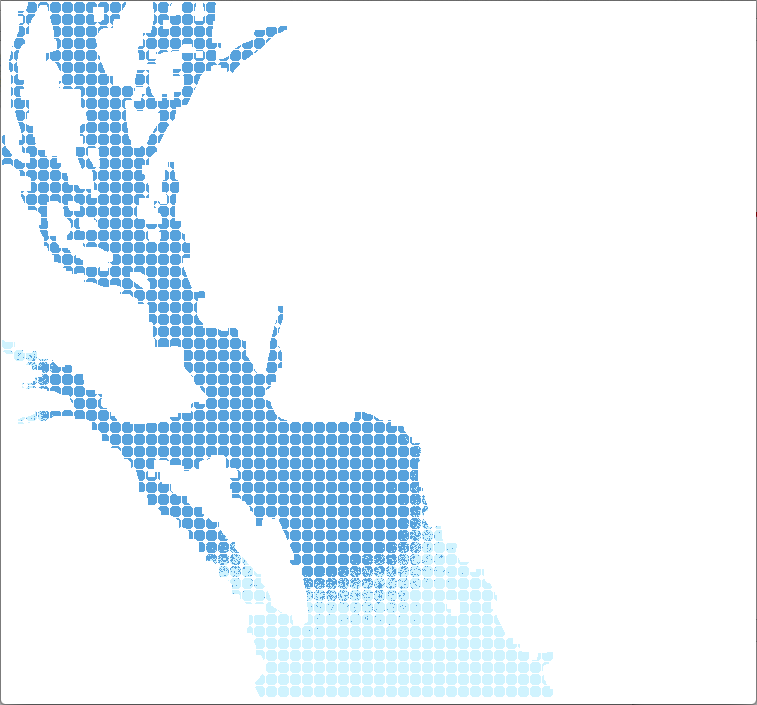
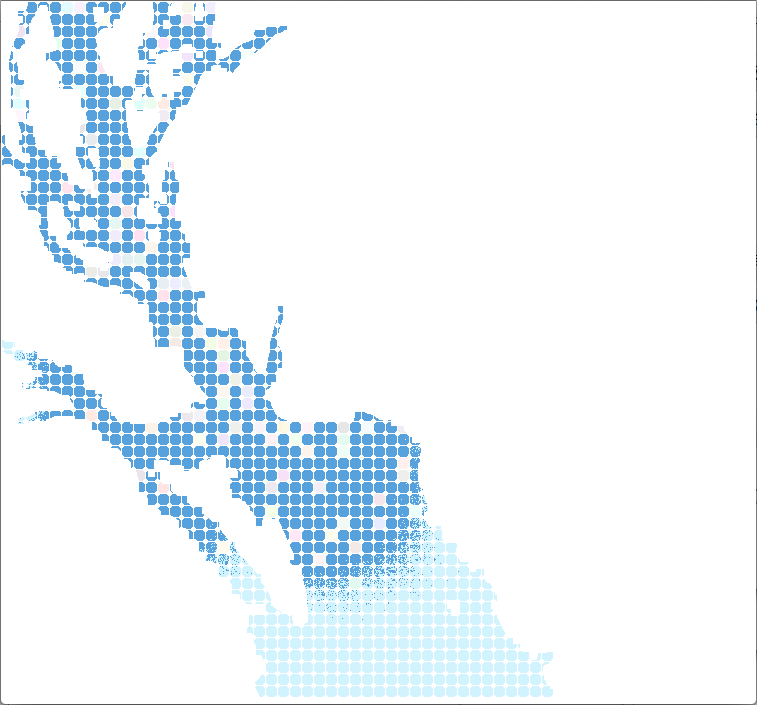
...

diff --git a/project_code/DevArt/main.cpp b/project_code/DevArt/main.cpp
@@ -41,6 +41,12 @@ char keyA[MAX_H][MAX_W],keyB[MAX_H][MAX_W];
 int keyC[MAX_H][MAX_W][2];
 IplImage* img=NULL;
 
+CvScalar cSW;
+CvScalar cSB;
+CvScalar cSG;
+CvScalar cSL;
+CvScalar cSD;
+
 struct PIX
 {
     int x,y,us,key,keyTime;
@@ -51,7 +57,7 @@ int pl;
 struct KEYPIX
 {
     int x,y,t,pi;
-    CvScalar clr;
+    CvScalar clri,clrt;
 }kp[MAX_H*MAX_W];
 
 int kpi,kpl;
@@ -93,9 +99,10 @@ void getKey(int &key,int &keyTime)
 
 void getClr(int key)
 {
-    kp[kpl].clr.val[0]=192+rand()%64;
-    kp[kpl].clr.val[1]=192+rand()%64;
-    kp[kpl].clr.val[2]=192+rand()%64;
+    kp[kpl].clri=cSW;
+    kp[kpl].clrt.val[0]=192+rand()%64;
+    kp[kpl].clrt.val[1]=192+rand()%64;
+    kp[kpl].clrt.val[2]=192+rand()%64;
 }
 
 const unsigned int kNumAQBufs = 3;			// number of audio queue buffers we allocate
@@ -173,18 +180,11 @@ int main(int argc, const char * argv[])
     }
     int i,j,k,l,x,y;
     srand(hs(lo.c_str())*hs(la.c_str())*hs(z.c_str()));
-    CvScalar cSW;
     cSW.val[0]=cSW.val[1]=cSW.val[2]=255;
-    CvScalar cSB;
     cSB.val[0]=cSB.val[1]=cSB.val[2]=0;
-    CvScalar cSG;
     cSG.val[0]=cSG.val[1]=cSG.val[2]=240;
-    CvScalar cSL;
     cSL.val[0]=253; cSL.val[1]=242; cSL.val[2]=213;
-    CvScalar cSD;
     cSD.val[0]=217; cSD.val[1]=163; cSD.val[2]=99;
-    CvScalar cSY;
-    cSY.val[0]=222; cSY.val[1]=242; cSY.val[2]=194;
     for(i=0;i<88;i++)
     {
         char s[10];
@@ -500,35 +500,18 @@ int main(int argc, const char * argv[])
                         if(d[k][l]>j)
                             continue;
                         d[k][l]=j;
-                        cvSet2D(img, k, l, kp[j].clr);
+                        cvSet2D(img, k, l, kp[j].clri);
                     }
                 }
-                if(kp[j].t==1)
-                {
-                    kp[j].clr=cSD;
-                }
-                else
-                {
-                    kp[j].clr.val[0]+=(cSD.val[0]-kp[j].clr.val[0])/6;
-                    kp[j].clr.val[1]+=(cSD.val[1]-kp[j].clr.val[1])/6;
-                    kp[j].clr.val[2]+=(cSD.val[2]-kp[j].clr.val[2])/6;
-                }
+                kp[j].clri.val[0]+=(kp[j].clrt.val[0]-kp[j].clri.val[0])/6;
+                kp[j].clri.val[1]+=(kp[j].clrt.val[1]-kp[j].clri.val[1])/6;
+                kp[j].clri.val[2]+=(kp[j].clrt.val[2]-kp[j].clri.val[2])/6;
             }
             cvShowImage("River-Melody", img);
             cvWaitKey(usToFrame/1000);
             nextFrame+=usToFrame;
         }
     }
-    
-    for(i=0;i<height;i++)
-    {
-        for(j=0;j<width;j++)
-        {
-            if(b[i][j]&&d[i][j]<0x7fffffff)
-                cvSet2D(img, i, j, cSD);
-        }
-    }
-    
     cvShowImage("River-Melody", img);
     cvWaitKey();
     return 0;

diff --git a/project_posts/2014-03-23-River-Reshaping.md b/project_posts/2014-03-23-River-Reshaping.md
@@ -1,6 +1,4 @@
-After downloading the map image, we need to find out whether a river actually exists or not. But before conducting the search, raw map images need to be processed. For example in the image of the Pearl River, we could see bridges and small tributaries that distort the shape of river:
-
-![Example Image](project_images/sample_1.png?raw=true "sample_1")
+After downloading the map image, we need to find out whether a river actually exists or not. But before conducting the search, raw map images need to be processed. For example in the image of the Pearl River, we could see bridges and small tributaries that distort the shape of river.
 
 The OpenCV have provided several morphology process functions that could help us reshape the river. In our project, we firstly mark up all river pixels in white, and then conduct dilation and erosion several times, just as the follow code displays:
 
@@ -29,7 +27,3 @@ cvErode(img, img);
 cvDilate(img, img);
 cvDilate(img, img);
 ```
-
-Afterwards, the river looks like this:
-
-![Example Image](project_images/sample_3.png?raw=true "sample_3")

diff --git a/project_posts/2014-03-24-Finding-the-River.md b/project_posts/2014-03-24-Finding-the-River.md
@@ -108,8 +108,3 @@ for(i=0;i<height;i++)
 
 printf("River starts at (%d,%d).\n",river_xs,river_ys);
 ```
-
-After aboved process, the highlighted river looks like this:
-
-![Example Image](project_images/sample_4.png?raw=true "Example Image")
-
